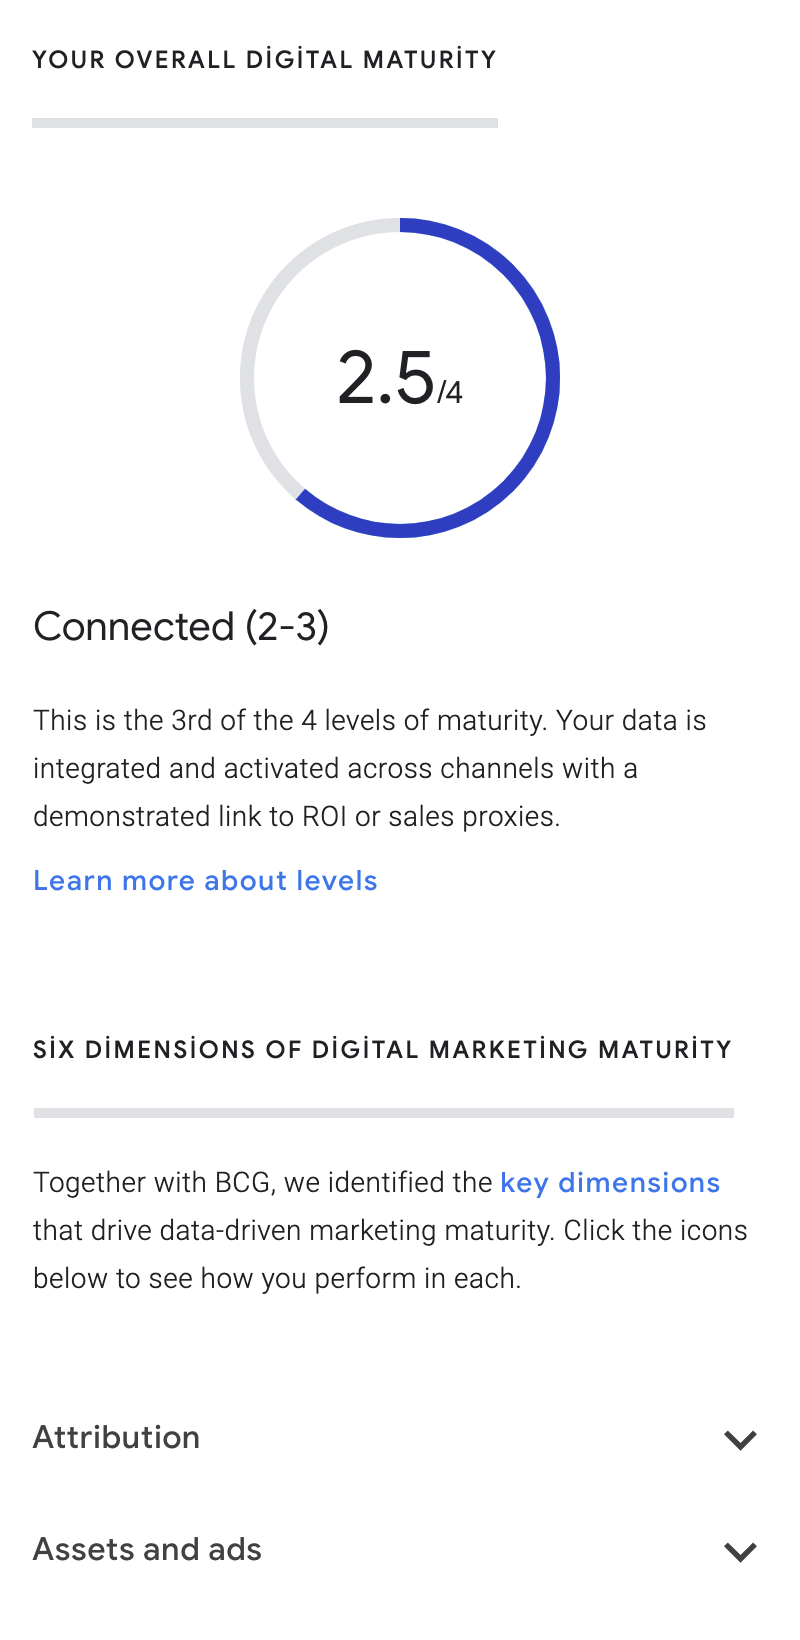
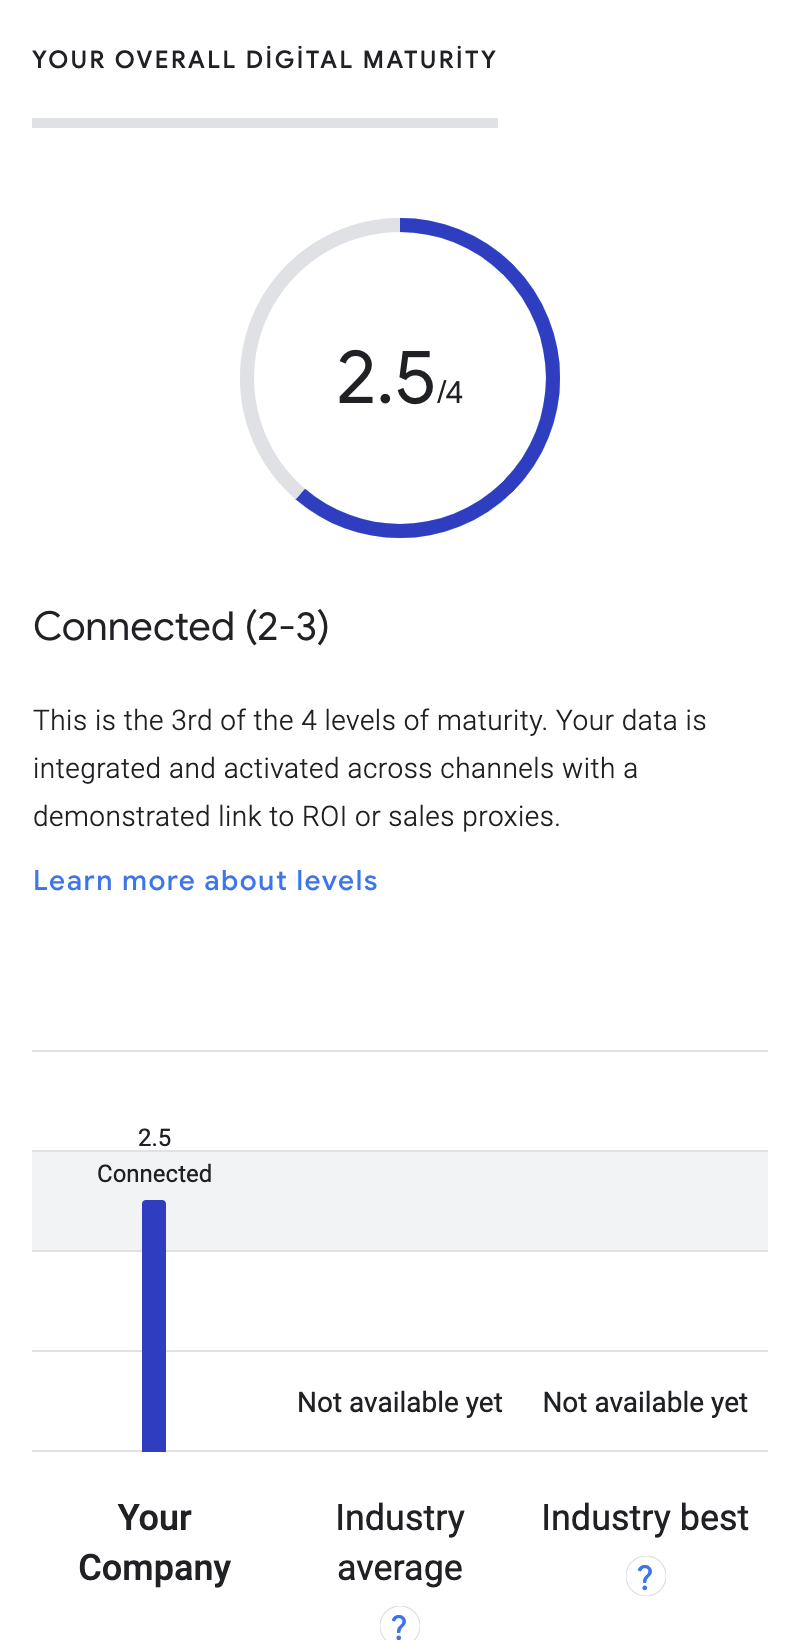
Added delay to mobile screenshot to allow graph to load

diff --git a/src/core/management/commands/screenshots.py b/src/core/management/commands/screenshots.py
@@ -71,6 +71,13 @@ def take_screenshots(driver, path, retina=False):
                 (By.CLASS_NAME, screen['focused_element'])
             )
         )
+        if screen_name == 'mobile':
+            # Wait until the graph data has loaded
+            _ = WebDriverWait(driver, 1).until(
+                EC.presence_of_element_located(
+                    (By.CLASS_NAME, 'dmb-progress-grid')
+                )
+            )
         if retina:
             take_screenshot(driver, element, path + '/{}@2x.png'.format(screen_name))
         else:
@@ -101,14 +108,16 @@ class Command(BaseCommand):
         # Take 1x screenshots
         chrome_options = webdriver.ChromeOptions()
         chrome_options.add_argument("--force-device-scale-factor=1")
-        chrome_options.add_argument("--app=http://localhost:8000/ads/")
+        # Launch in app mode to remove navbar and point to phony url to save loading time
+        chrome_options.add_argument("--app=http://localhost:8000/notaurl")
         driver = webdriver.Chrome(options=chrome_options)
         take_tenant_screenshots(driver)
         driver.close()
         # Take 2x screenshots
         retina_options = webdriver.ChromeOptions()
         retina_options.add_argument("--force-device-scale-factor=2")
-        retina_options.add_argument("--app=http://localhost:8000/ads/")
+        # Launch in app mode to remove navbar and point to phony url to save loading time
+        retina_options.add_argument("--app=http://localhost:8000/notaurl")
         retina_driver = webdriver.Chrome(options=retina_options)
         take_tenant_screenshots(retina_driver, retina=True)
         retina_driver.close()
